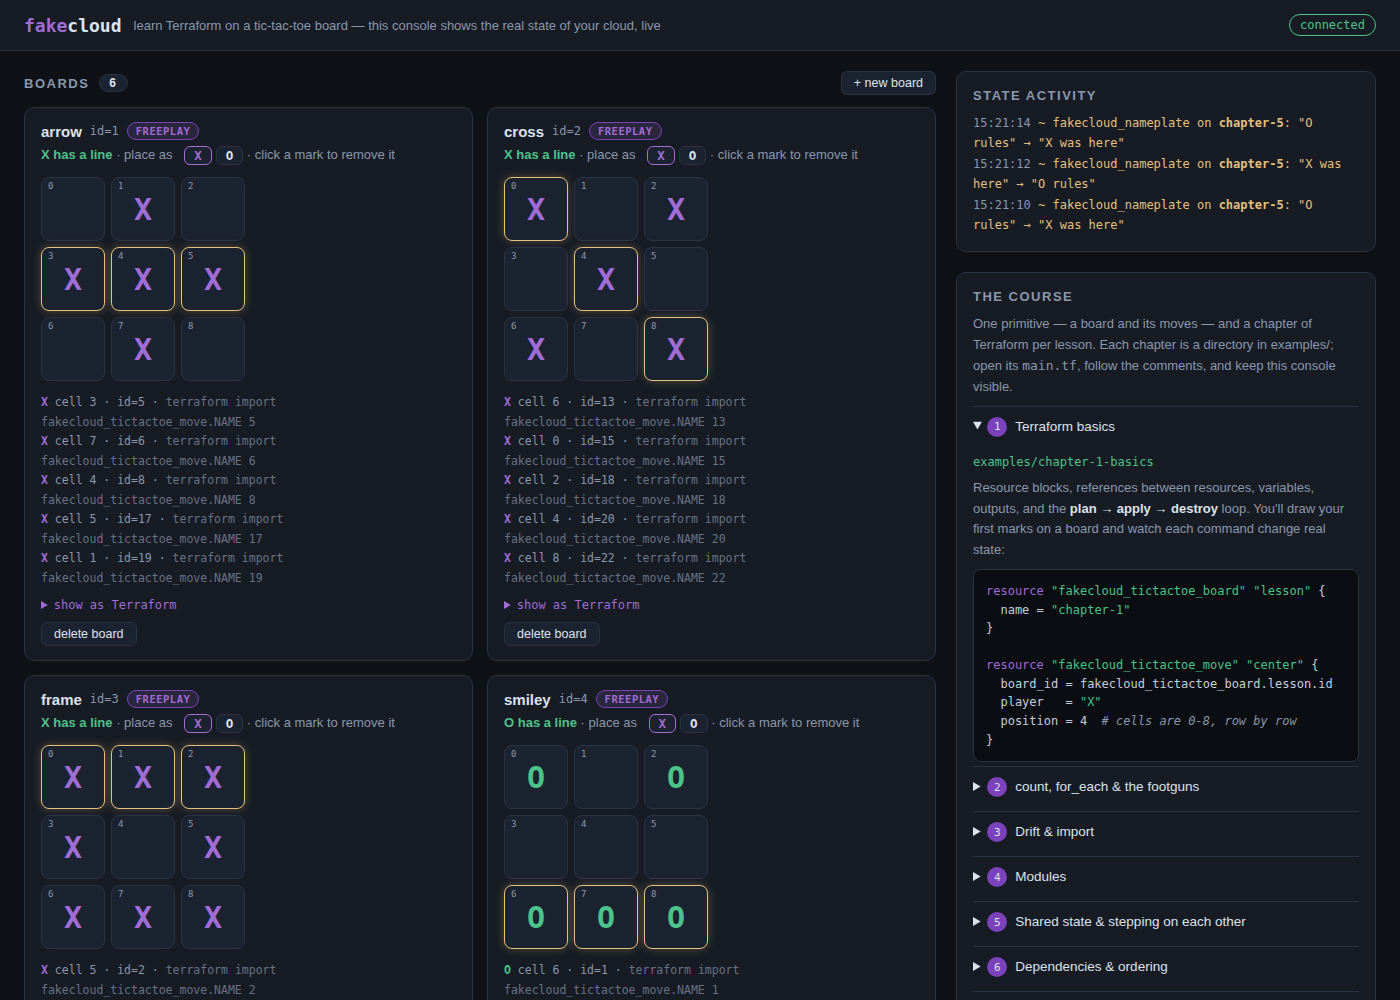
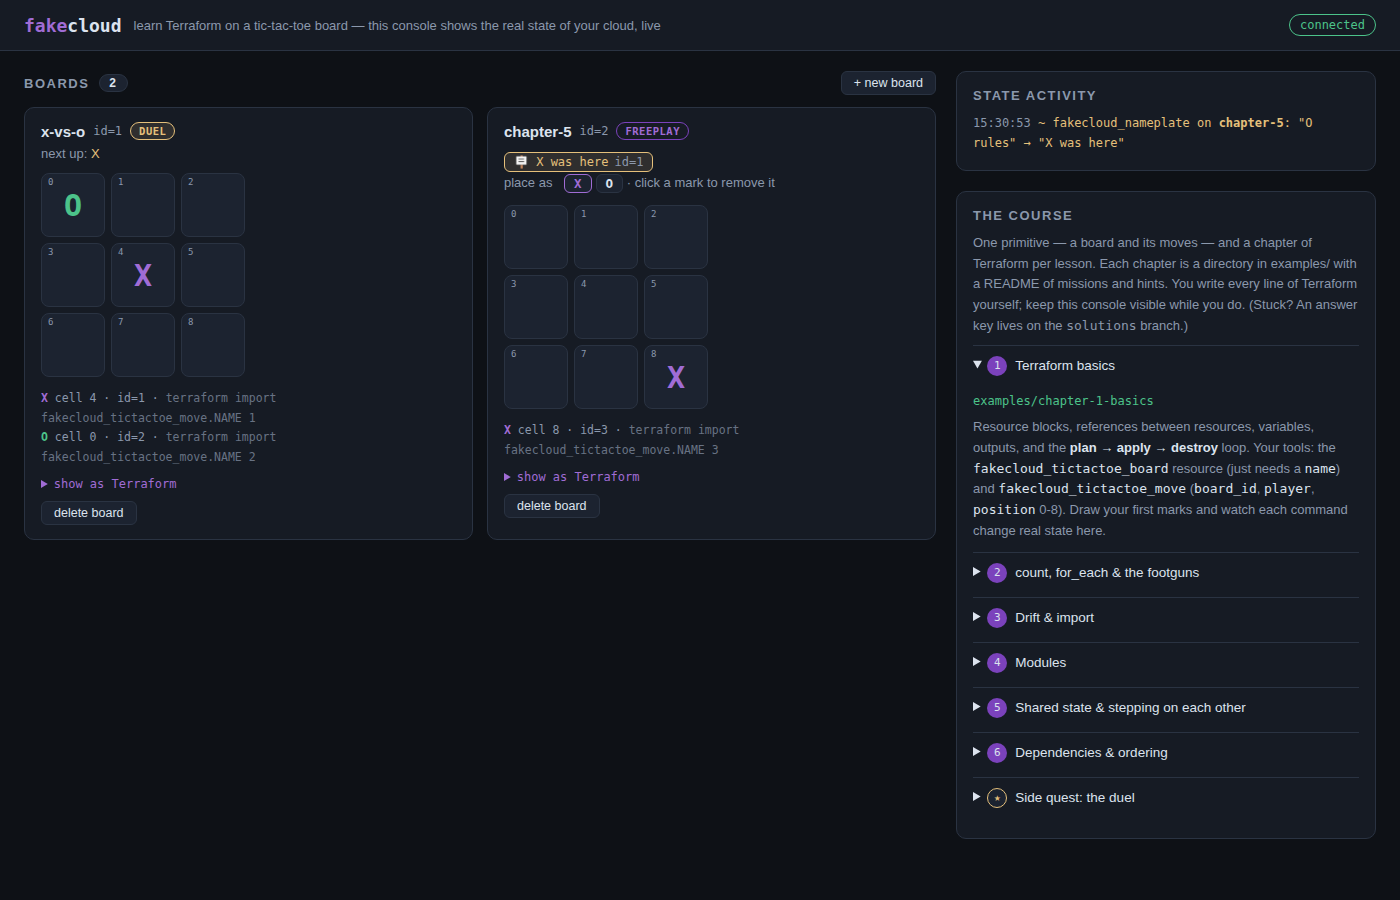
Dashboard follows the OS color scheme
Dark stays the default; a prefers-color-scheme media query swaps the
palette to a light theme with adjusted contrast for marks, badges, the
plaque, and code blocks. Hardcoded colors move into CSS variables so
both themes share one stylesheet. README hero image now theme-matches
on GitHub via a <picture> element.

Claude-Session: https://claude.ai/code/session_0153uCqiJXK5Mng2uPVDqSPj

diff --git a/server/web/static/index.html b/server/web/static/index.html
@@ -5,7 +5,10 @@
 <meta name="viewport" content="width=device-width, initial-scale=1">
 <title>fakecloud console</title>
 <style>
+  /* Theme follows the OS preference: dark is the default, light overrides
+     below via prefers-color-scheme. */
   :root {
+    color-scheme: dark;
     --bg: #0e1116;
     --panel: #161b24;
     --panel-2: #1c2330;
@@ -16,8 +19,30 @@
     --accent-2: #7b42bc;
     --green: #4cc38a;
     --yellow: #e5c07b;
+    --yellow-tint: rgba(229, 192, 123, .12);
     --red: #e06c75;
+    --code-bg: #0a0d12;
+    --code-text: #c5cede;
     --mono: "SF Mono", ui-monospace, "Cascadia Code", Menlo, Consolas, monospace;
+  }
+  @media (prefers-color-scheme: light) {
+    :root {
+      color-scheme: light;
+      --bg: #f4f5f8;
+      --panel: #ffffff;
+      --panel-2: #edeff4;
+      --border: #d7dce5;
+      --text: #21293a;
+      --muted: #5e6a7e;
+      --accent: #7b42bc;
+      --accent-2: #7b42bc;
+      --green: #14804a;
+      --yellow: #a06a00;
+      --yellow-tint: rgba(160, 106, 0, .10);
+      --red: #c2333c;
+      --code-bg: #f7f5fb;
+      --code-text: #333a48;
+    }
   }
   * { box-sizing: border-box; margin: 0; padding: 0; }
   body {
@@ -76,8 +101,8 @@
     font-size: 10.5px; font-family: var(--mono); text-transform: uppercase;
     padding: 2px 8px; border-radius: 999px; letter-spacing: .5px;
   }
-  .badge.freeplay { background: rgba(160,108,213,.15); color: var(--accent); border: 1px solid var(--accent-2); }
-  .badge.duel { background: rgba(229,192,123,.12); color: var(--yellow); border: 1px solid var(--yellow); }
+  .badge.freeplay { background: transparent; color: var(--accent); border: 1px solid var(--accent-2); }
+  .badge.duel { background: var(--yellow-tint); color: var(--yellow); border: 1px solid var(--yellow); }
 
   button {
     background: var(--panel-2); color: var(--text);
@@ -93,9 +118,9 @@
     font-family: var(--mono); user-select: none;
   }
   pre.code {
-    background: #0a0d12; border: 1px solid var(--border); border-radius: 8px;
+    background: var(--code-bg); border: 1px solid var(--border); border-radius: 8px;
     padding: 12px; margin-top: 8px; overflow-x: auto;
-    font-family: var(--mono); font-size: 12px; line-height: 1.55; color: #c5cede;
+    font-family: var(--mono); font-size: 12px; line-height: 1.55; color: var(--code-text);
   }
   pre.code .kw { color: var(--accent); }
   pre.code .str { color: var(--green); }
@@ -125,7 +150,7 @@
   .cell.playable:hover::after { content: attr(data-mark); color: var(--yellow); opacity: .45; }
   .cell.removable { cursor: pointer; }
   .cell.removable:hover { border-color: var(--red); }
-  .cell.win { border-color: var(--yellow); box-shadow: 0 0 10px rgba(229,192,123,.3); }
+  .cell.win { border-color: var(--yellow); box-shadow: 0 0 10px var(--yellow-tint); background: var(--yellow-tint); }
   .cell .pos { position: absolute; top: 3px; left: 6px; font-size: 9px; color: var(--muted); font-weight: 400; }
   .status { font-size: 13px; color: var(--muted); }
   .status .turn { color: var(--yellow); }
@@ -139,7 +164,7 @@
   .plaque {
     display: inline-flex; align-items: center; gap: 6px;
     font-size: 12px; font-family: var(--mono); color: var(--yellow);
-    background: rgba(229,192,123,.08); border: 1px solid rgba(229,192,123,.35);
+    background: var(--yellow-tint); border: 1px solid var(--yellow);
     border-radius: 6px; padding: 2px 9px; margin: 6px 0 2px; cursor: pointer;
   }
   .plaque:hover { border-color: var(--yellow); }

diff --git a/README.md b/README.md
@@ -12,7 +12,12 @@ footguns tear it apart, drift and imports happen when you click it. And when
 you're done learning, flip it to `duel` mode and play a friend, one
 `terraform apply` at a time.
 
-![dashboard](docs/dashboard.png)
+<picture>
+  <source media="(prefers-color-scheme: light)" srcset="docs/dashboard-light.png">
+  <img alt="the fakecloud dashboard" src="docs/dashboard.png">
+</picture>
+
+The dashboard follows your OS theme — light and dark both included.
 
 ## The course
 